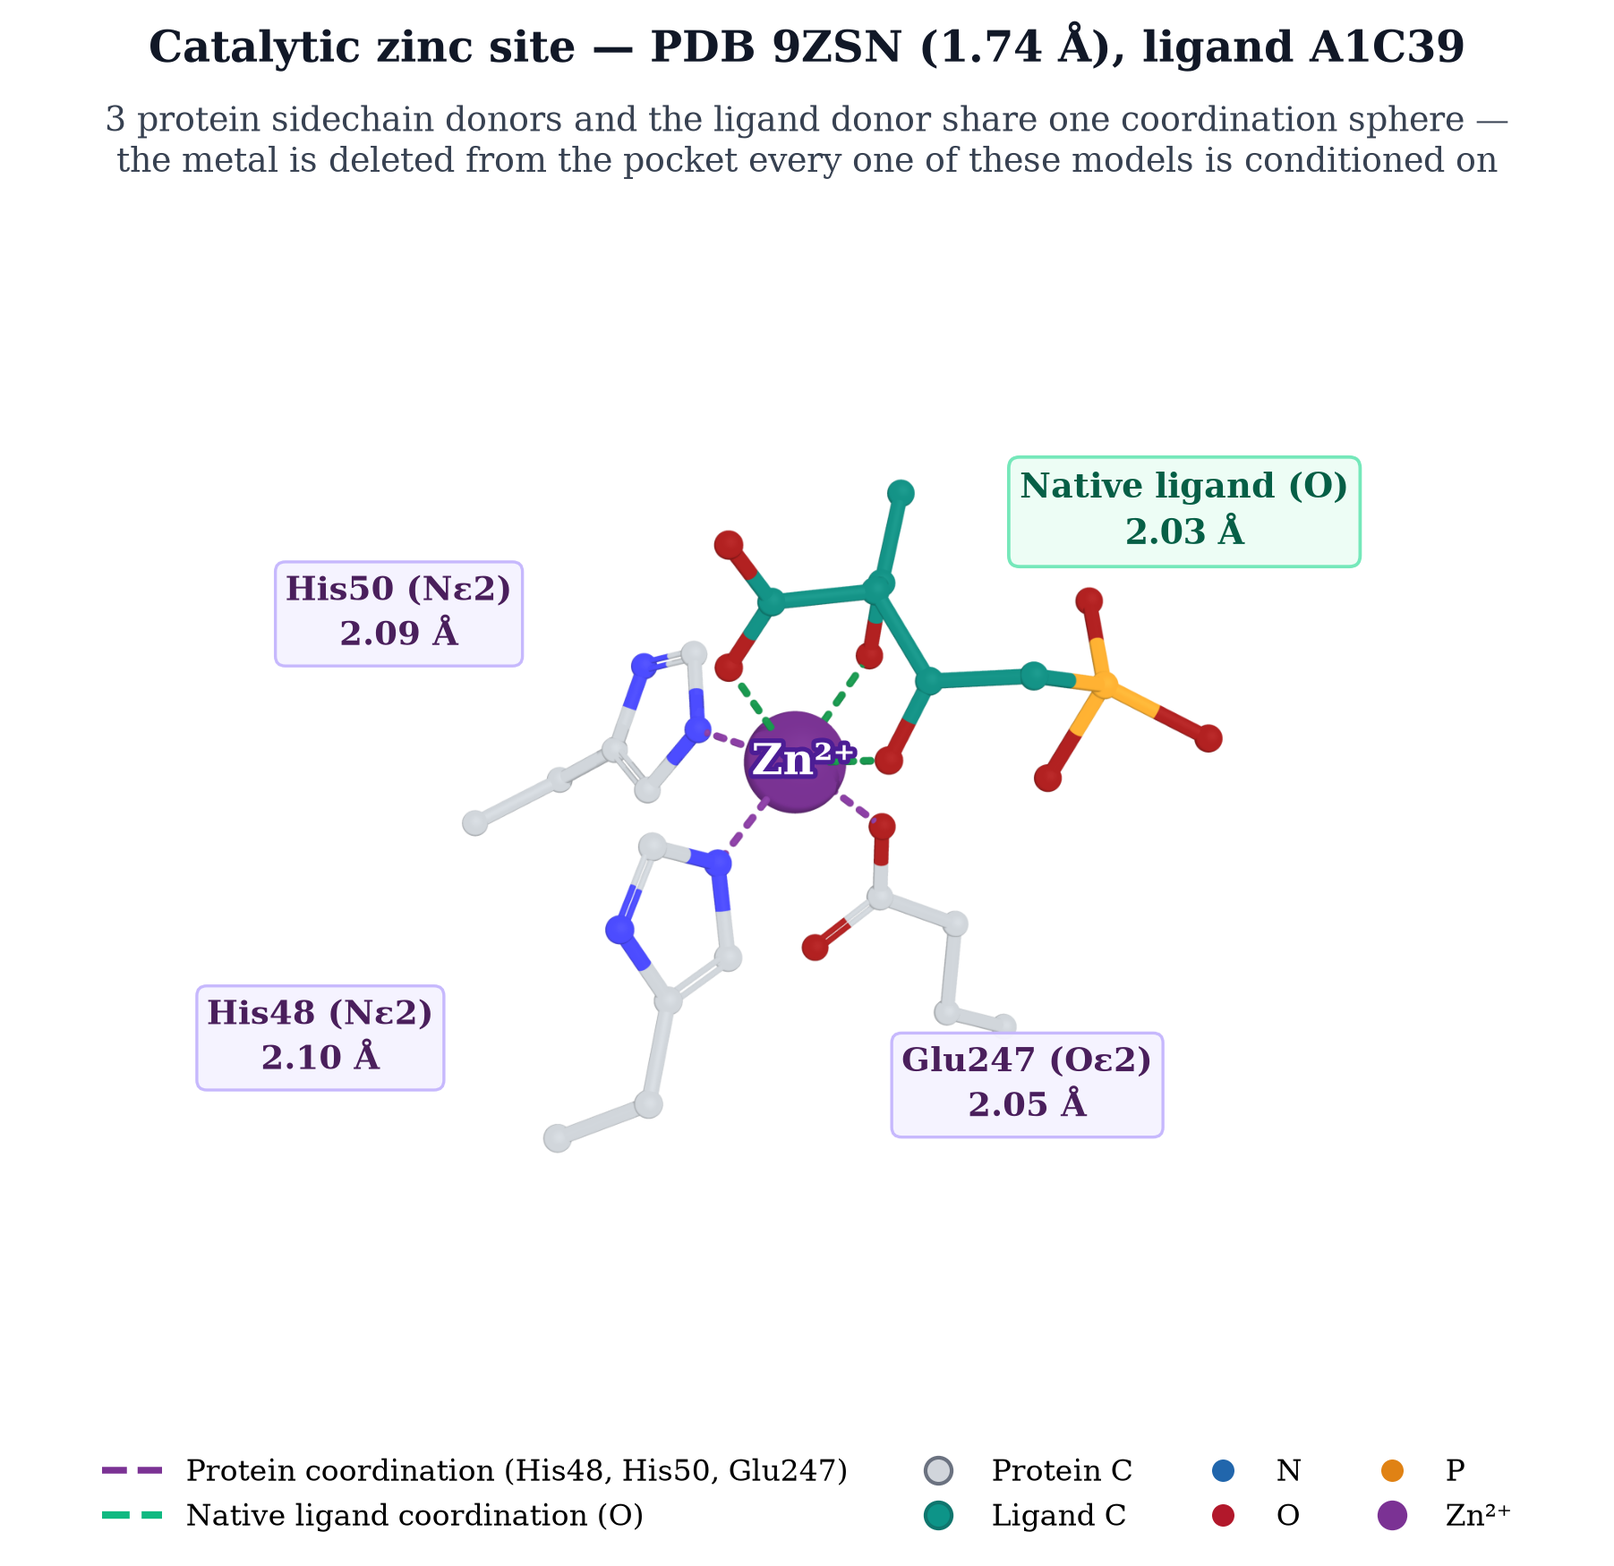
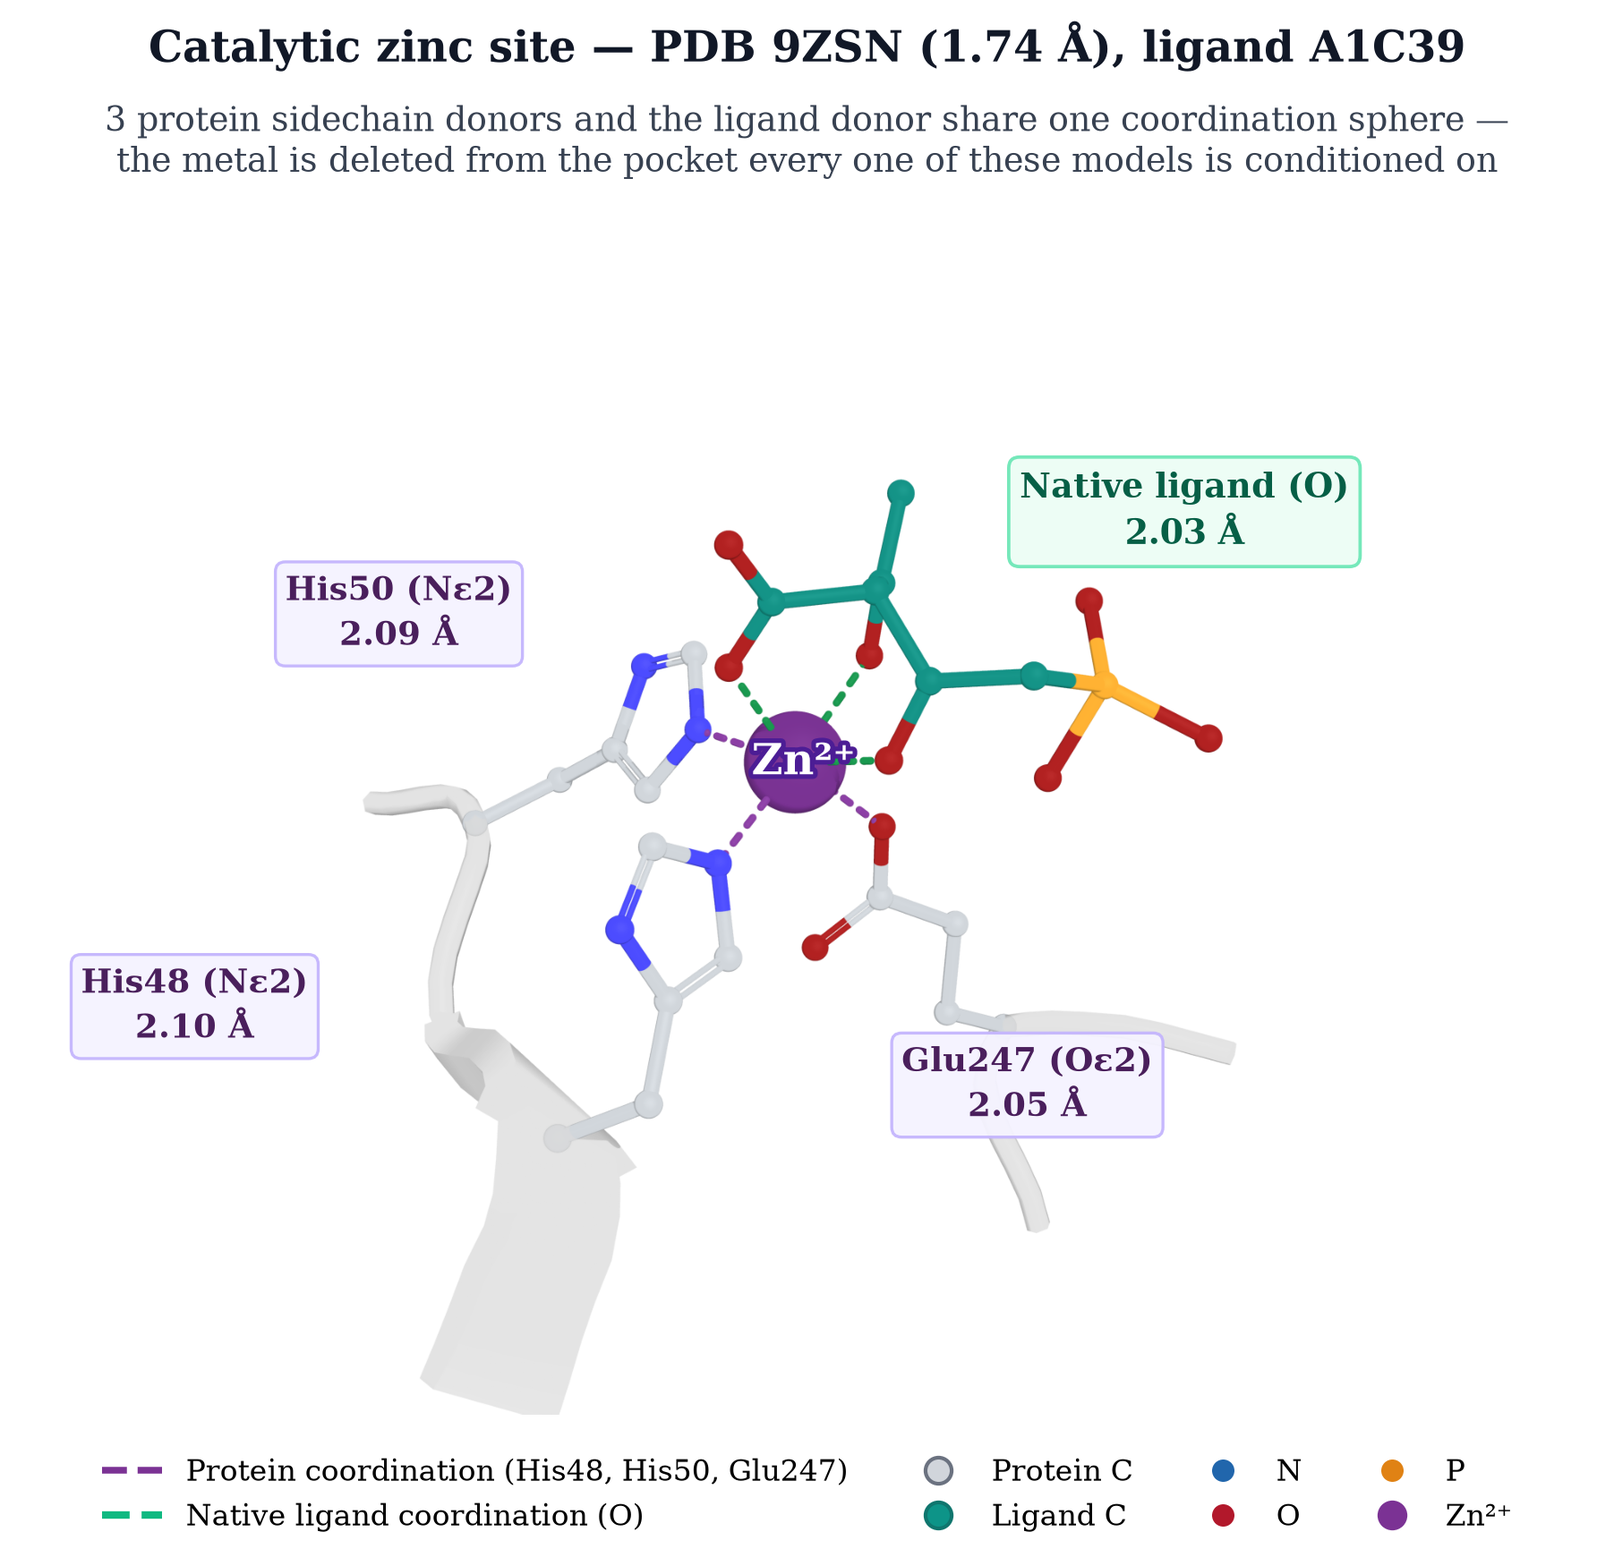
docs: refine README documentation and update coordination site figure assets

Changed region(s): [[0.0311, 0.4937, 0.4038, 0.9257], [0.6212, 0.648, 0.7765, 0.6789], [0.6212, 0.7097, 0.6522, 0.8023]]

diff --git a/docs/figures/fig1_coordination_site.py b/docs/figures/fig1_coordination_site.py
@@ -45,8 +45,17 @@ def render_pymol_scene(pdb_id: str, donors: dict, temp_png: Path) -> None:
     cmd.select("zn_site", "chain A and resn ZN")
     cmd.select("coord_res", f"chain A and resi {res_nums} and (sidechain or name CA)")
     cmd.select("lig_near", "lig within 6.5 of zn_site")
+    cmd.select("bb_cartoon", f"byres (chain A and resi {res_nums} expand 3)")
 
-    # Ball and stick representation
+    # Secondary structure backbone cartoon + Ball and stick sidechains
+    cmd.show("cartoon", "bb_cartoon")
+    cmd.set("cartoon_color", "gray85")
+    cmd.set("cartoon_transparency", 0.25)
+    cmd.set("cartoon_fancy_helices", 1)
+    cmd.set("cartoon_flat_sheets", 1)
+    cmd.set("cartoon_smooth_loops", 1)
+    cmd.set("cartoon_side_chain_helper", 1)
+
     cmd.show("sticks", "coord_res or lig_near")
     cmd.show("spheres", "zn_site")
     cmd.set("sphere_scale", 0.54, "zn_site")
@@ -135,7 +144,7 @@ def make_figure(outdir: Path, targets: dict, pdb_id: str = "9ZSN") -> Path:
 
         # Visual Callout Badges for Coordination Shell
         # His48 (Bottom Left)
-        ax.text(380, 1120, "His48 (Nε2)\n2.10 Å", fontsize=8.8, weight="bold",
+        ax.text(220, 1080, "His48 (Nε2)\n2.10 Å", fontsize=8.8, weight="bold",
                 ha="center", va="center", color="#4a1f5c",
                 bbox=dict(boxstyle="round,pad=0.30", facecolor="#f5f3ff", edgecolor="#c4b5fd", alpha=0.95, lw=0.8))
 

diff --git a/README.md b/README.md
@@ -5,9 +5,9 @@
 [![PyTorch](https://img.shields.io/badge/PyTorch-2.0+-ee4c2c.svg)](https://pytorch.org/)
 
 > Pocket-conditioned 3D generative models delete catalytic metal ions during preprocessing.
-> This repository measures the resulting coordination failures with a checker no existing
-> benchmark provides, and tests whether restoring the metal to the pocket representation —
-> rather than merely fine-tuning on more metalloprotein data — repairs them.
+> This repository measures the coordination failures that follow, and tests whether restoring
+> the metal to the pocket representation — rather than fine-tuning on more metalloprotein
+> data — repairs them.
 
 <p align="center">
   <img src="docs/figures/coordination_site.png" width="620"
@@ -27,16 +27,16 @@ pocket-extraction filter in the CrossDocked lineage removes them:
 | **TargetDiff** | `if line[0:6].strip() == 'ATOM':` | `utils/data.py` | no |
 | **Pocket2Mol** | `if line[0:6].strip() == 'ATOM':` | `utils/protein_ligand.py` | no |
 
-DiffSBDD is the stricter case: the checkpoint used here also has no metal entry in its
-pocket vocabulary (`dataset_params['crossdock']['atom_encoder']`, ten elements, closed set).
+DiffSBDD is the stricter case: the checkpoint used here also has no metal entry in its pocket
+vocabulary (`dataset_params['crossdock']['atom_encoder']`, ten elements, closed set).
 
-TargetDiff and Pocket2Mol resolve elements through RDKit's periodic table and *could* represent
-zinc if handed it. The binding constraint is the record filter, not the element vocabulary. The
-defensible claim is *"metal ions never reach the model"* — never *"these models cannot represent
-metals."*
+TargetDiff and Pocket2Mol resolve elements through RDKit's periodic table and could represent
+zinc if handed it. The binding constraint is the record filter, not the element vocabulary — so
+the accurate statement is that metal ions never reach the model, not that these models cannot
+represent metals.
 
-The lineage is live, not historical: MolCRAFT and DrugFlow reuse the same preprocessed
-`crossdocked_pocket10` files and independently filter metals through their own vocabularies.
+This is current practice, not history: MolCRAFT and DrugFlow reuse the same preprocessed
+`crossdocked_pocket10` files and filter metals through their own vocabularies.
 
 ---
 
@@ -45,24 +45,24 @@ The lineage is live, not historical: MolCRAFT and DrugFlow reuse the same prepro
 ### 1. A metal-coordination checker (`scripts/coordination_checker.py`)
 
 PoseBusters checks conformation, strain and clashes; GenBench3D checks conformer quality.
-Neither checks coordination. This one scores, per generated molecule, against the metal the
-model never saw:
+Neither checks coordination. This one scores each generated molecule against the metal that
+preprocessing removed:
 
 - **V1** hard clash — any ligand heavy atom within **1.70 Å** of the metal centre;
 - **V2** shell occupancy — an atom inside the **2.70 Å** first shell that is not a valid donor;
 - **valid coordination** — donor element N/O/S at a distance inside a per-pair window
   (Zn–N 1.90–2.35 Å, Zn–O 1.85–2.30 Å, Zn–S 2.15–2.50 Å, and equivalents for Mg/Mn/Fe/Ca/Cu);
 - **angular RMS deviation** from ideal tetrahedral / trigonal-bipyramidal / octahedral geometry,
-  computed over the **combined** coordination sphere — the protein sidechain donors plus
-  whatever the ligand contributes, because that is the chemically meaningful unit;
+  computed over the combined coordination sphere — protein sidechain donors plus whatever the
+  ligand contributes, since that is the chemically meaningful unit;
 - chelate-aware strict variants of V2 and the primary endpoint.
 
-Unit tests for the geometry live in `tests/test_coordination_checker.py`.
+Geometry unit tests: `tests/test_coordination_checker.py`.
 
 ### 2. A strictly filtered external zinc benchmark
 
-133 catalytic-zinc targets in **26 independent 30%-sequence-identity clusters**, curated to be
-disjoint from CrossDocked training data, with resolution, mutant and ligand-quality filters, and
+133 catalytic-zinc targets in 26 independent 30%-sequence-identity clusters, curated to be
+disjoint from CrossDocked training data, with resolution, mutant and ligand-quality filters and
 a per-target list of protein sidechain donors. Headline analyses run on the pre-registered
 primary X-ray stratum (m=21 clusters, n=127 targets); six cryo-EM targets are reported
 separately.
@@ -74,7 +74,7 @@ separately.
 
 *One native ligand per sequence cluster, spanning five zinc-binding-group classes.*
 
-### 3. A four-arm ablation that isolates cause
+### 3. A four-arm ablation
 
 | Arm | Metal in pocket | Metal atom types | Fine-tuned | Isolates |
 |---|:---:|:---:|:---:|---|
@@ -83,24 +83,28 @@ separately.
 | **C** | yes | yes | yes (LoRA + new vocabulary rows) | is it a representation problem? |
 | **D** | yes | yes | yes + inference-time constraint | does geometry need explicit enforcement? |
 
-Arm B decides the paper's claim. If more metalloprotein data through the same metal-blind
-representation closes the gap, the finding is mundane. If it does not and Arm C does, the
-representation is the bug — and it is inherited across the field.
+Arm B is the arm that matters. If more metalloprotein data through the same metal-blind
+representation closes the gap, the answer is data. If it does not and Arm C does, the answer is
+the representation — which the whole CrossDocked lineage shares.
 
 ---
 
 ## Results so far
 
-All rates below are recomputed directly from the checker output on the primary X-ray cohort
-(12,700 molecules per generative arm, 100 valid molecules per target) by
-`docs/figures/make_readme_figures.py`, so the figures cannot drift from the underlying data.
+All rates below are recomputed from the checker output on the primary X-ray cohort (12,700
+molecules per generative arm, 100 valid molecules per target) by
+`docs/figures/make_readme_figures.py`, so the figures and the table stay in sync with the data.
 
 <p align="center">
   <img src="docs/figures/valid_coordination_by_arm.png" width="700"
        alt="Valid coordination rate: native ligands 77.17%, Arm A with post-hoc SMARTS filter 24.45%, Arm A 19.98%, Arm B 10.58%">
 </p>
 
-*Bars show cluster-mean rates across the 21 sequence clusters (each cluster weighted equally); whiskers indicate 95% percentile CIs from 10,000 cluster bootstrap resamples. Diamonds (◆) mark pooled molecule-level rates (lower than cluster means because the two largest target families, 50 and 32 targets, score below average). Arm A + SMARTS filter is a post-hoc filtered subset (retains 38% of molecules; yield per generated molecule is 9.3%).*
+*Bars are cluster-mean rates across the 21 sequence clusters, each cluster weighted equally;
+whiskers are 95% percentile CIs from 10,000 cluster bootstrap resamples. Diamonds (◆) mark
+pooled molecule-level rates — lower than cluster means because the two largest target families
+(50 and 32 targets) score below average. Arm A + SMARTS is a post-hoc filtered subset that
+keeps 38% of molecules, so its yield per generated molecule is 9.3%.*
 
 | Endpoint | Native ligands (C1) | Arm A (base) | Arm B (fine-tuned, metal-blind) |
 |---|---:|---:|---:|
@@ -111,79 +115,85 @@ All rates below are recomputed directly from the checker output on the primary X
 | Mean valid coordinations / molecule | 0.874 | 0.215 | 0.110 |
 | Angular RMSD to ideal geometry | 18.04° | 25.28° | 26.90° |
 
-**Step 1 — the failure is real and specific.** Generated ligands coordinate the catalytic zinc
+**Step 1 — the failure is metal-specific.** Generated ligands coordinate the catalytic zinc
 validly in 19.98% of molecules against a 77.17% native ceiling (GEE odds ratio 0.075,
 p = 5.3 × 10⁻⁶, cluster-clustered). Angular deviation stays near 25° even when a donor does land
-in the shell. The paired protein-atom control (C2) shows the failure is metal-specific, not
-general geometric sloppiness: the same molecules clash with ordinary pocket protein atoms two
-orders of magnitude less often.
+in the shell. The paired protein-atom control (C2) rules out general geometric sloppiness: the
+same molecules clash with ordinary pocket protein atoms two orders of magnitude less often.
 
-**C3 did not confirm.** The burial-matched decoy control came in
-at 1.181× metal-site vs decoy occupancy with a paired CI crossing zero, and
-the measured σ_d (0.2998) exceeded the pre-registered σ_d ≤ 0.10 needed for a null to be
-interpretable. C3 is **unresolved, not confirmatory**. The model is not preferentially homing in
-on the metal site — it reproduces training-ligand density generically, and when an atom does
-land near the metal, the chemistry is wrong.
+**C3 did not confirm.** The burial-matched decoy control came in at 1.181× metal-site vs decoy
+occupancy with a paired CI crossing zero, and the measured σ_d (0.2998) exceeded the
+pre-registered σ_d ≤ 0.10 needed for a null to be interpretable, so C3 is unresolved rather than
+confirmatory. The model is not preferentially homing in on the metal site — it reproduces
+training-ligand density generically, and when an atom does land near the metal, the chemistry is
+wrong.
 
-**Step 2 Arm B — fine-tuning does not close the gap.** Fine-tuning on metalloprotein-enriched data through
-the unmodified, metal-blind representation *lowers* the valid-coordination rate to 10.58%
-(cluster bootstrap 13.79%, 95% CI [9.16%, 18.77%]), against a pre-registered falsification
-threshold of ≤30%. The distance histogram shows why: the fine-tuned model does not learn to
-coordinate the metal, it learns to **avoid the region**.
+**Step 2 Arm B — fine-tuning does not close the gap.** Fine-tuning on metalloprotein-enriched
+data through the unmodified, metal-blind representation *lowers* the valid-coordination rate to
+10.58% (cluster bootstrap 13.79%, 95% CI [9.16%, 18.77%]), against a pre-registered
+falsification threshold of ≤30%. The distance histogram shows why: the fine-tuned model does not
+learn to coordinate the metal, it learns to avoid the region.
 
 <p align="center">
   <img src="docs/figures/zn_distance_distribution.png" width="760"
        alt="Distance from zinc to the nearest ligand heavy atom: natives peak inside the valid 1.90-2.35 A window, Arm A is diffuse, Arm B is shifted outward with a large fraction beyond 5 A">
 </p>
 
-*Solid curves show Gaussian kernel density estimates ($\sigma = 0.10\text{ \AA}$, identical bandwidth across all series) scaled to percentage of molecules per 0.2 Å bin; faint steps show raw binned counts. Smoothing leaks minor density across the 1.70 Å boundary not present in the raw bins.*
+*Solid curves are Gaussian KDEs ($\sigma = 0.10\text{ \AA}$, identical bandwidth across series)
+scaled to percentage of molecules per 0.2 Å bin; faint steps are the raw binned counts.
+Smoothing leaks minor density across the 1.70 Å boundary that the raw bins do not show.*
 
-The same distances, read radially instead of along an axis — a cross-section through the
-coordination sphere, one dot per molecule:
+The same distances read radially — a cross-section through the coordination sphere, one dot per
+molecule:
 
 <p align="center">
   <img src="docs/figures/zn_coordination_spheres.png" width="920"
        alt="Cross-section through the zinc coordination sphere for native ligands, Arm A and Arm B: native atoms cluster in the 1.90-2.35 A annulus, Arm A scatters across and inside it, Arm B is pushed out beyond the first shell">
 </p>
 
-*Zn²⁺ ionic radius (0.74 Å) is the Shannon four-coordinate value. Top panels show 2D radial cross-sections (one dot per molecule, 600 sampled per arm); bottom panels show the aligned bilateral radial density profile spanning the diameter of the sphere (percentages are geometric distance-only; the full valid-coordination endpoint additionally requires the contacting atom to be a chemically valid N, O, or S donor).*
+*Top panels are 2D radial cross-sections (one dot per molecule, 600 sampled per arm); bottom
+panels are the aligned bilateral radial density across the diameter of the sphere. The Zn²⁺
+ionic radius (0.74 Å) is the Shannon four-coordinate value. Percentages here are distance-only;
+the full valid-coordination endpoint also requires the contacting atom to be an N, O or S donor.*
 
-**Step 3 kill check, run early — the SMARTS baseline beats Arm A.** A post-hoc SMARTS filter
-for known zinc-binding groups applied to the *unmodified* base model recovers 24.45% valid
-coordination among the 38% of molecules it keeps — better than Arm A's raw 19.98%. Any
-representation fix has to beat this cheap baseline on rate, not only on yield per molecule
-generated (where filtering costs 61% of the samples). This is pre-registered in
+**Step 3 — a cheap baseline already beats Arm A.** Run early, as the pre-registered kill check:
+a post-hoc SMARTS filter for known zinc-binding groups, applied to the *unmodified* base model,
+recovers 24.45% valid coordination among the 38% of molecules it keeps, against Arm A's raw
+19.98%. Any representation fix has to beat this on rate, not only on yield per molecule
+generated, where filtering costs 61% of the samples. Registered in
 `docs/step3_smarts_baseline.md`.
 
 ### In progress
 
-Arm C — metal retained in the pocket, pocket vocabulary expanded from 10 to 16 element classes
-(genuinely decoupled from the 10-class ligand vocabulary, so the generator still cannot emit a
-free zinc atom), first-layer surgery verified bit-identical to the base checkpoint on metal-free
-pockets, LoRA adapters plus directly-trainable new vocabulary rows — is generating its 133-target
-evaluation set. **No Arm C endpoint is reported here until the full cohort is scored**, against
-the predictions registered in `results/step2/ANALYSIS_PLAN_ARMC.md` before any molecule was
-generated.
+Arm C keeps the metal in the pocket and expands the pocket vocabulary from 10 to 16 element
+classes. That vocabulary is decoupled from the 10-class ligand vocabulary, so the generator
+still cannot emit a free zinc atom. First-layer surgery is verified bit-identical to the base
+checkpoint on metal-free pockets; training uses LoRA adapters plus directly-trainable new
+vocabulary rows.
+
+Generation over the 133-target evaluation set is still running. No Arm C endpoint is reported
+here until the full cohort is scored against the predictions in
+`results/step2/ANALYSIS_PLAN_ARMC.md`, which were registered before any molecule was generated.
+An unblinded interim look at the partial cohort is on record in
+`results/step2/ARMC_INTERIM_73.md`; it is not the registered result and changes no threshold.
 
 ---
 
 ## Methodological standards
 
-- **Pre-registration.** Analysis plans, endpoints, thresholds and decision rules are committed
-  before the data they judge (`results/step1/ANALYSIS_PLAN.md`,
-  `results/step2/ANALYSIS_PLAN_ARMB.md`, `results/step2/ANALYSIS_PLAN_ARMC.md`); if a reported
-  figure later needs correcting, the fix is a dated note in that file, not a silent edit.
-- **Every claim carries a control that could have detected the positive.** C1 native ligands
-  (is the checker's threshold merely too strict?), C2 protein-atom clash paired within molecule
-  (is the model sloppy everywhere?), C3 burial-matched decoys paired within pocket (is the metal
-  site special, or just buried?).
-- **Detection limits stated in advance.** Minimum detectable effects are computed a priori at the
-  cluster level; results below the MDE are reported as unresolved rather than as nulls.
-- **Failed gates are reported with their numbers.** Step 1's primary endpoint came in at 18.38%
-  against a registered >30% prediction, and C3 did not confirm. Both are in the results
-  documents.
+- **Pre-registration.** Endpoints, thresholds and decision rules are committed before the data
+  they judge (`results/step1/ANALYSIS_PLAN.md`, `results/step2/ANALYSIS_PLAN_ARMB.md`,
+  `results/step2/ANALYSIS_PLAN_ARMC.md`); corrections are dated notes in those files, never
+  silent edits.
+- **Controls that could have detected a positive.** C1 native ligands (is the threshold too
+  strict?), C2 protein-atom clash paired within molecule (is the model sloppy everywhere?), C3
+  burial-matched decoys paired within pocket (is the metal site special, or just buried?).
+- **Detection limits first.** Minimum detectable effects are computed a priori at the cluster
+  level; anything below the MDE is reported as unresolved, not as a null.
+- **Failed gates keep their numbers.** Step 1's primary endpoint came in at 18.38% against a
+  registered >30% prediction, and C3 did not confirm; both are in the results documents.
 
-Hardware: everything here runs on a single 8 GB consumer GPU and 32 CPU cores.
+Everything here runs on a single 8 GB consumer GPU and 32 CPU cores.
 
 ---
 
@@ -214,7 +224,7 @@ metal-aware-sbdd/
 ```
 
 Large artifacts (checkpoints, LMDBs, `.pt` datasets, generated SDFs, per-molecule JSONL) are
-deliberately untracked; the scripts regenerate them.
+untracked; the scripts regenerate them.
 
 ---
 
